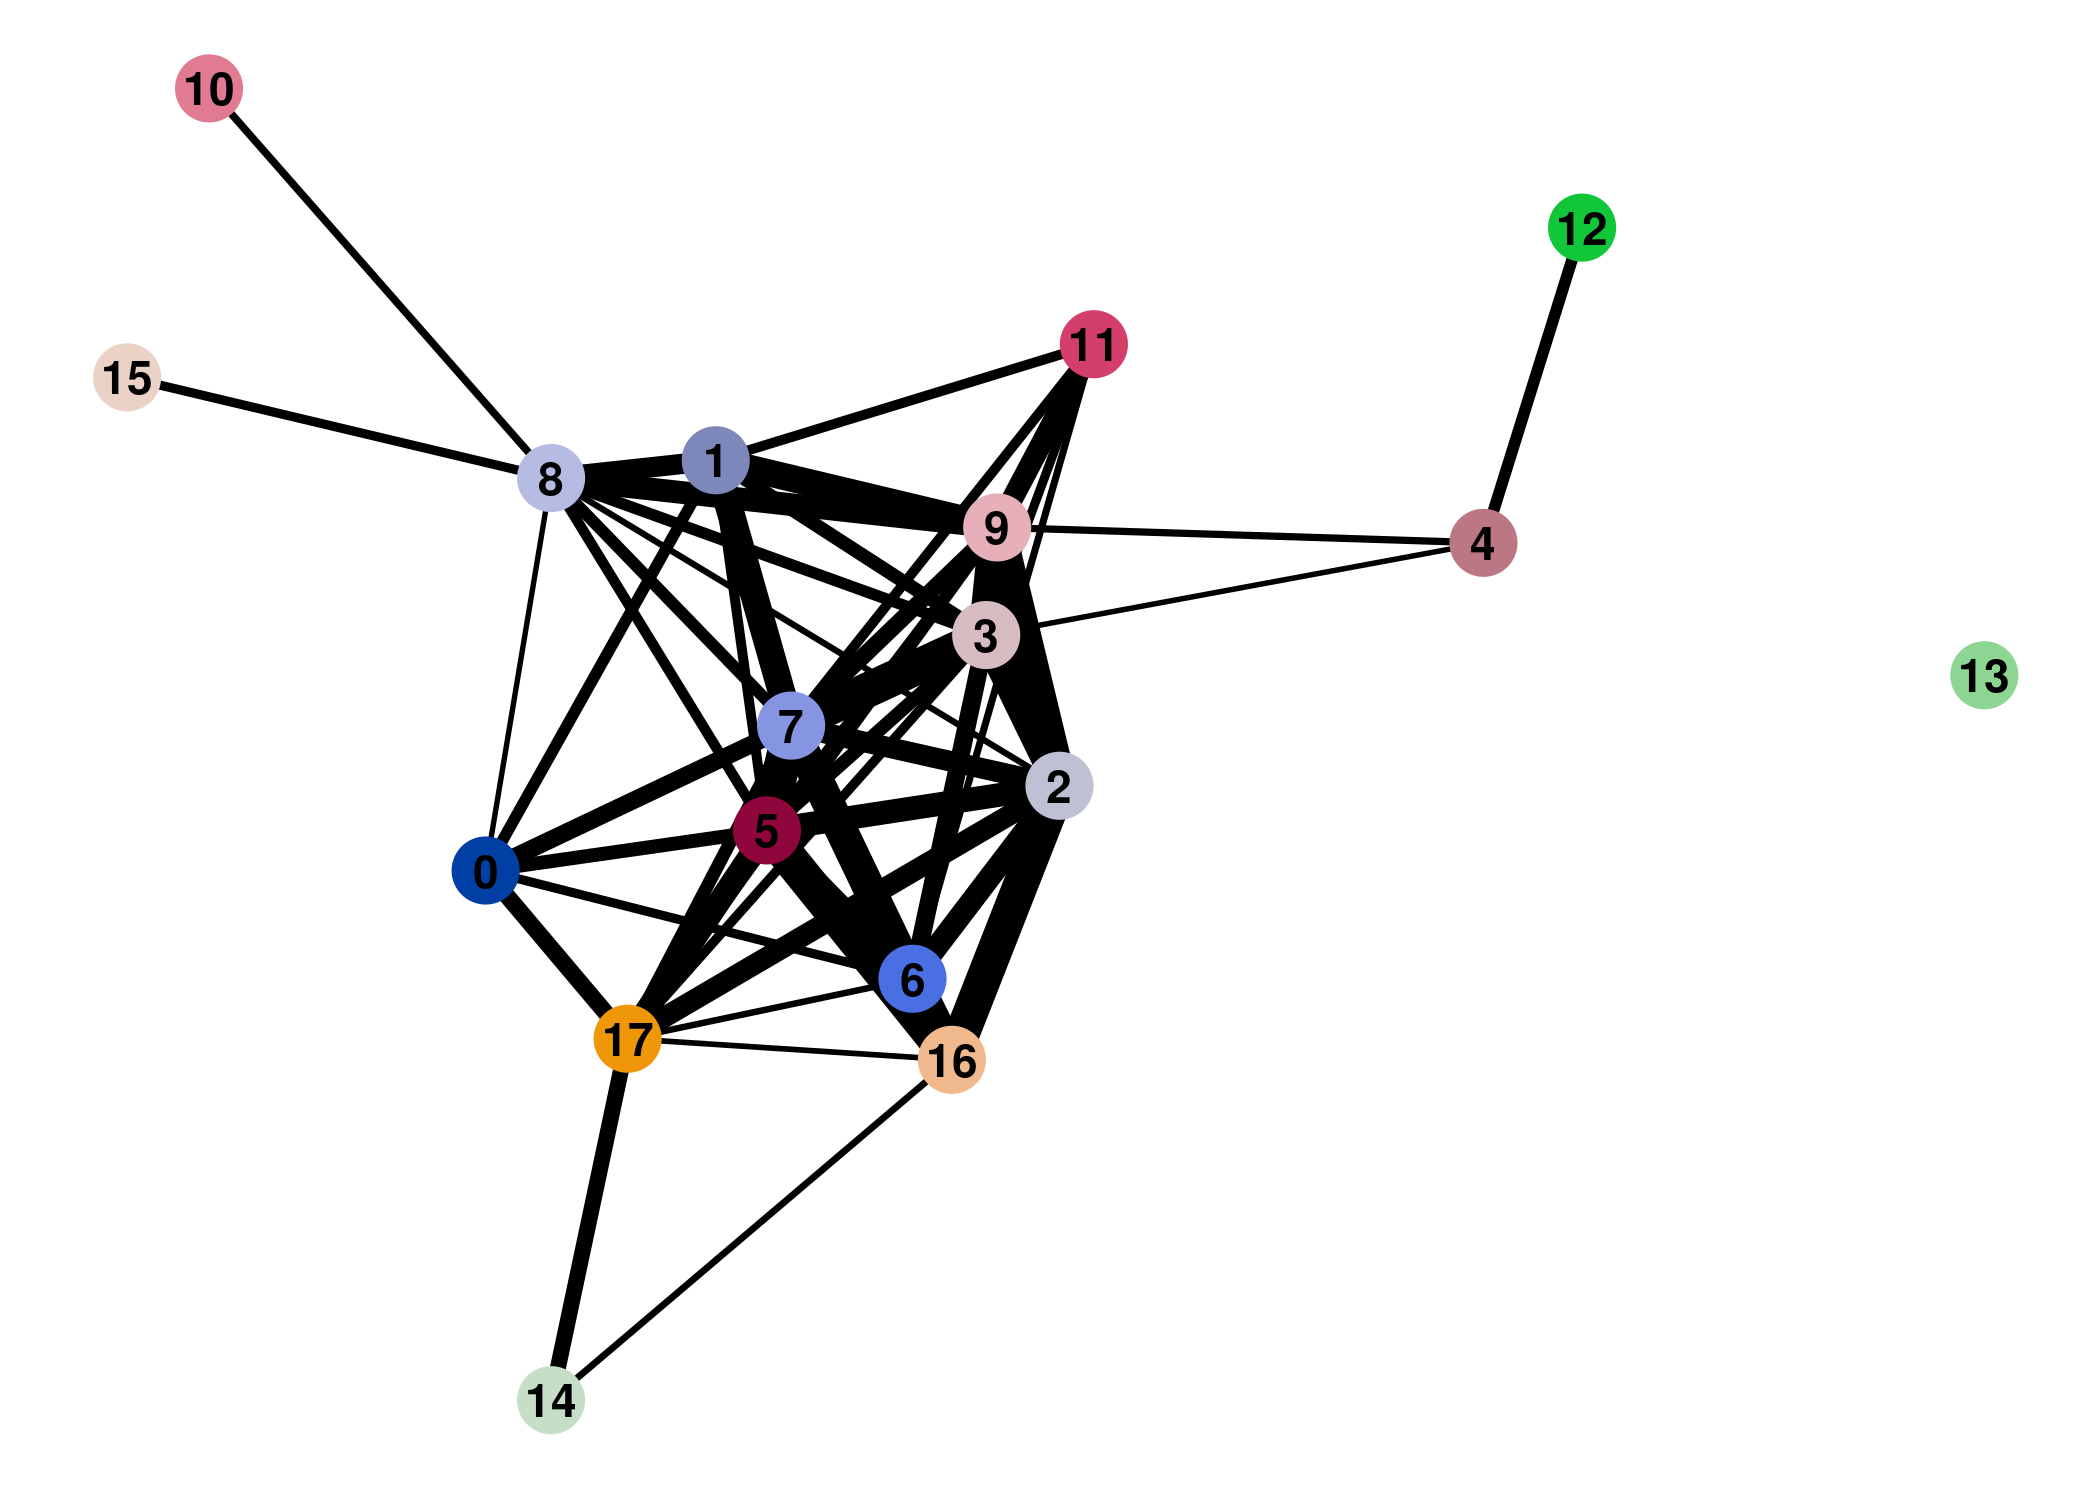
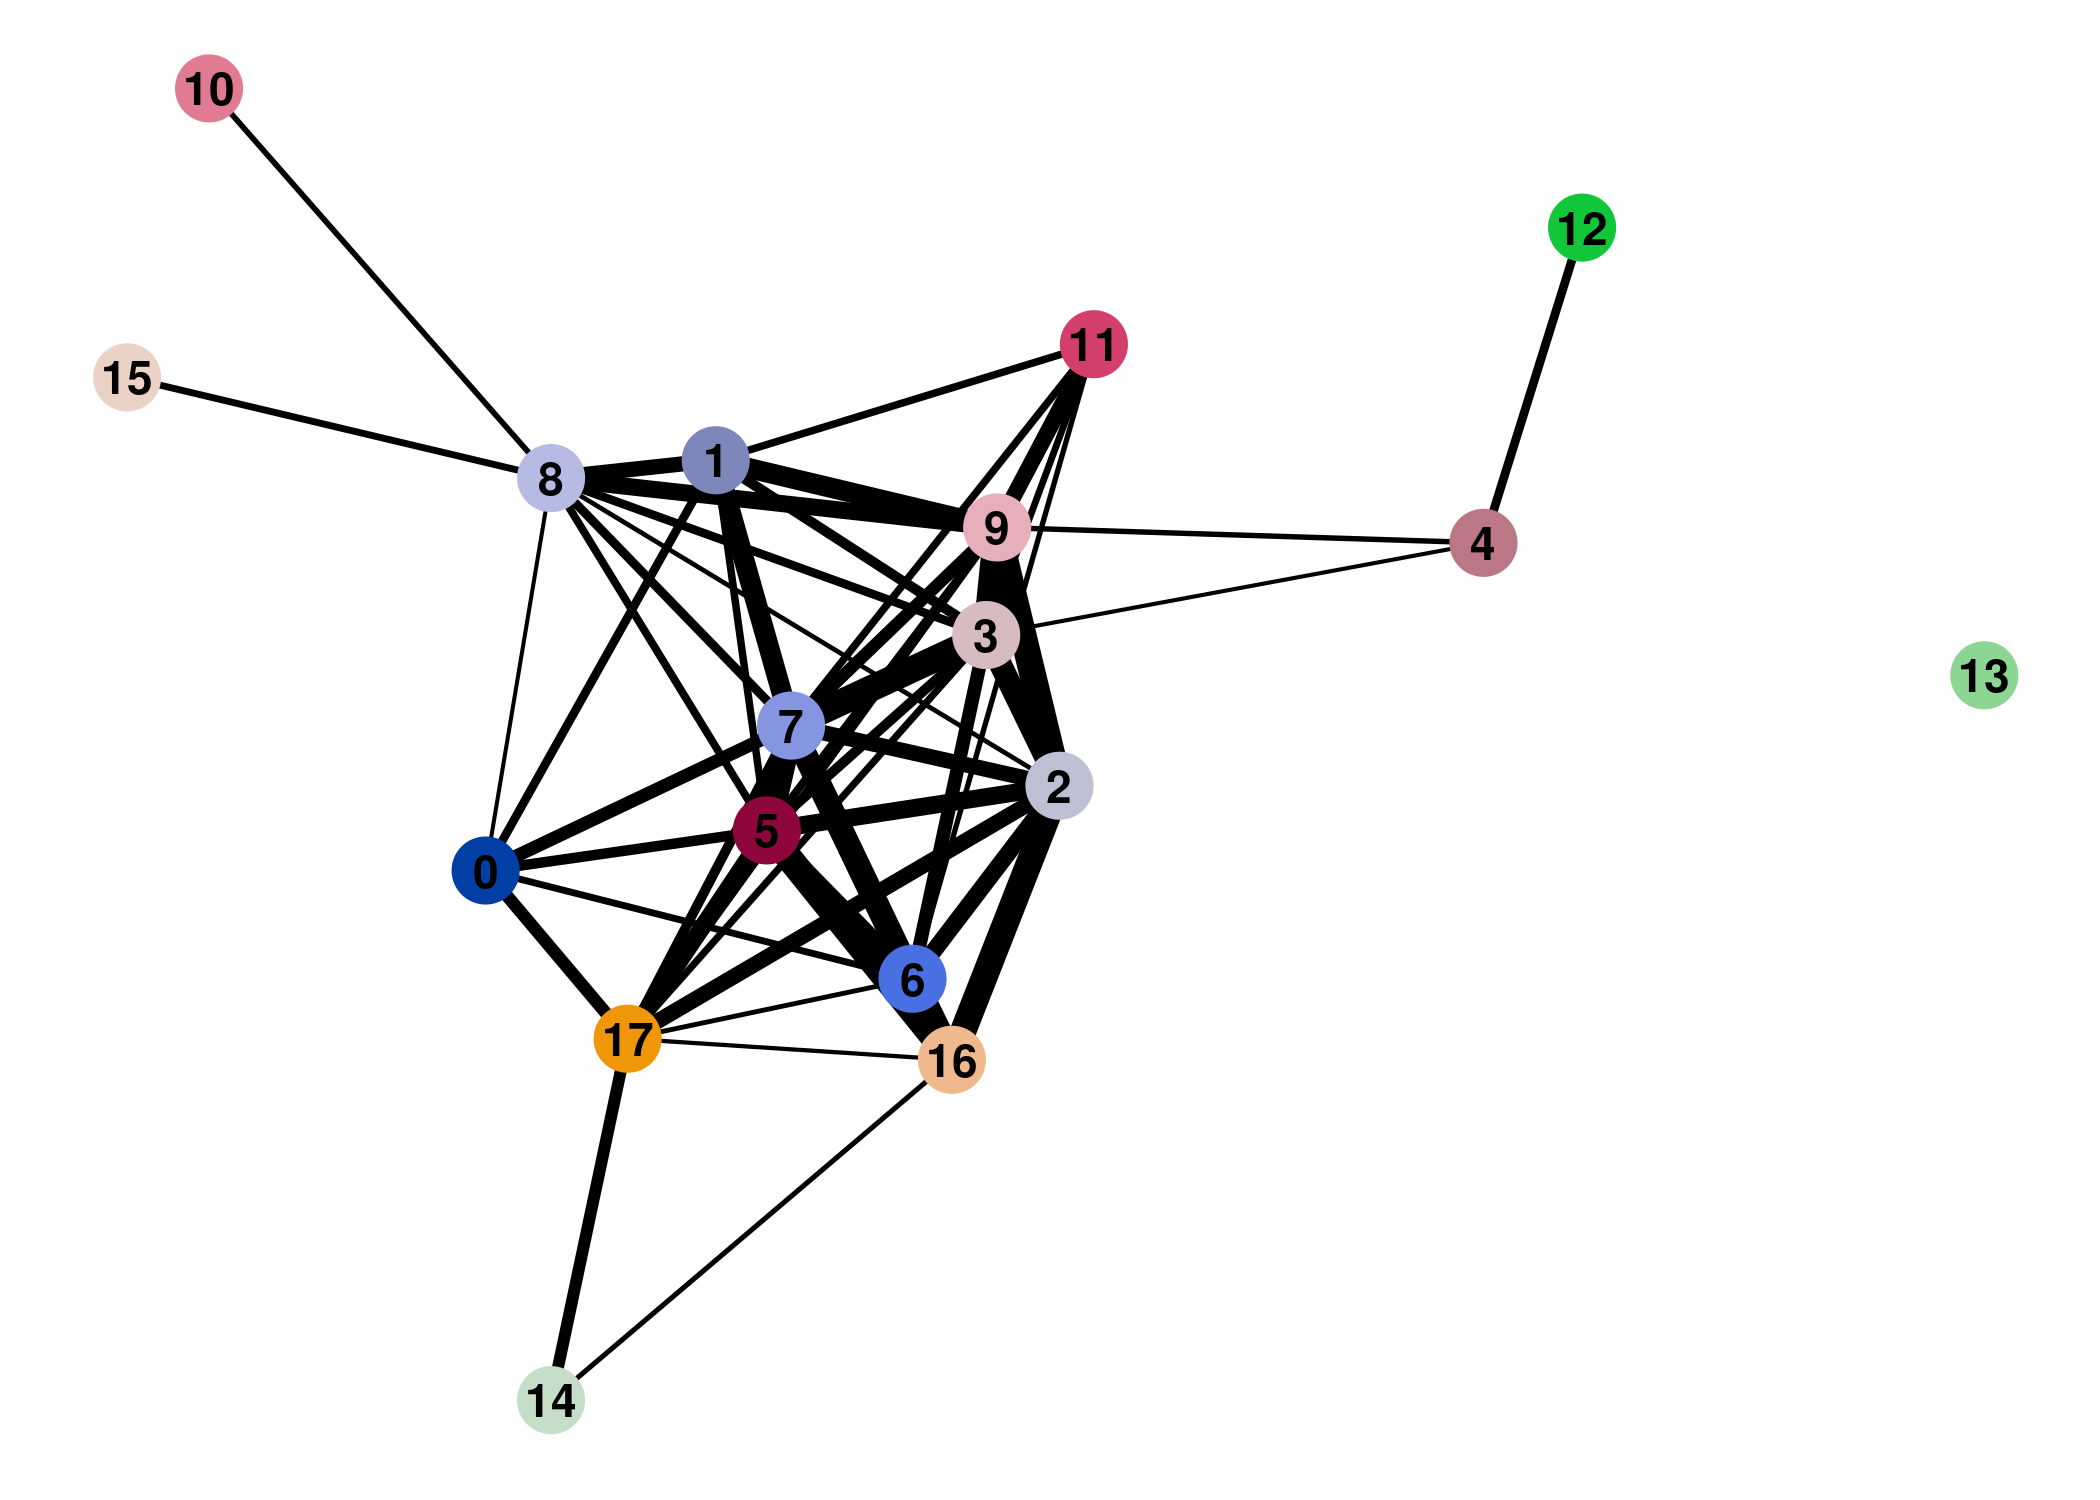
Update.

Changed region(s): [[0.2476, 0.3067, 0.4952, 0.7053], [0.4643, 0.276, 0.5262, 0.3373]]

diff --git a/blog/paga_to_r/index.html b/blog/paga_to_r/index.html
@@ -63,7 +63,7 @@
             
             <h1 class="posttitle">Porting PAGA results from scanpy to R</h1>
             <div class="article-post">
-              Apr 15, 2019
+              Apr 16, 2019
             </div>
 
           </div>
@@ -215,7 +215,7 @@ The lower the cut-off, the more connection will be visible.</p>
 geom_segment(
   data <span style="color:#f92672">=</span> paga_edges,
   aes(x <span style="color:#f92672">=</span> x1, y <span style="color:#f92672">=</span> y1, xend <span style="color:#f92672">=</span> x2, yend <span style="color:#f92672">=</span> y2),
-  size <span style="color:#f92672">=</span> paga_edges<span style="color:#f92672">$</span>weight<span style="color:#f92672">*</span><span style="color:#ae81ff">4</span>,
+  size <span style="color:#f92672">=</span> paga_edges<span style="color:#f92672">$</span>weight<span style="color:#f92672">*</span><span style="color:#ae81ff">3</span>,
   colour <span style="color:#f92672">=</span> <span style="color:#e6db74">&#34;black&#34;</span>,
   show.legend <span style="color:#f92672">=</span> <span style="color:#66d9ef">FALSE</span>
 ) <span style="color:#f92672">+</span>
@@ -376,22 +376,11 @@ mutate(
   y2 <span style="color:#f92672">=</span> paga<span style="color:#f92672">$</span>position<span style="color:#f92672">$</span>y[<span style="color:#66d9ef">match</span>(<span style="color:#ae81ff">.</span><span style="color:#f92672">$</span>group2, <span style="color:#66d9ef">rownames</span>(paga<span style="color:#f92672">$</span>position))]
 )</code></pre></div>
 
-<div class="highlight"><pre style="color:#f8f8f2;background-color:#272822;-moz-tab-size:4;-o-tab-size:4;tab-size:4"><code class="language-r" data-lang="r">paga_arrows <span style="color:#f92672">&lt;-</span> tibble(
-  group1 <span style="color:#f92672">=</span> <span style="color:#66d9ef">character</span>(),
-  group2 <span style="color:#f92672">=</span> <span style="color:#66d9ef">character</span>(),
-  weight <span style="color:#f92672">=</span> <span style="color:#66d9ef">double</span>(),
-  x1 <span style="color:#f92672">=</span> <span style="color:#66d9ef">double</span>(),
-  y1 <span style="color:#f92672">=</span> <span style="color:#66d9ef">double</span>(),
-  x2 <span style="color:#f92672">=</span> <span style="color:#66d9ef">double</span>(),
-  y2 <span style="color:#f92672">=</span> <span style="color:#66d9ef">double</span>()
-)</code></pre></div>
-
-<h4 id="generate-directed-arrows">Generate directed arrows</h4>
-
 <p>Next, we need to convert the transition confidences into a format that <code>ggplot2</code>, more precisely the <code>geom_segment</code> function, can handle.
 To do so, we&hellip;</p>
 
 <ul>
+<li>create an empty tibble for the data</li>
 <li>check the transition confidence for every combination of clusters</li>
 <li>check which direction is more confident and store only that value</li>
 <li>skip comparisons between clusters that have already been done</li>
@@ -400,16 +389,22 @@ To do so, we&hellip;</p>
 
 <p>There is probably a more elegant way to do this, perhaps using tools such as <a href="https://briatte.github.io/ggnetwork/"><code>ggnetwork</code></a> or <a href="https://briatte.github.io/ggnet/"><code>ggnet2</code></a>, but this gets the job done for now.</p>
 
-<div class="highlight"><pre style="color:#f8f8f2;background-color:#272822;-moz-tab-size:4;-o-tab-size:4;tab-size:4"><code class="language-r" data-lang="r"><span style="color:#75715e"># dimensions of transition confidence matrix</span>
+<div class="highlight"><pre style="color:#f8f8f2;background-color:#272822;-moz-tab-size:4;-o-tab-size:4;tab-size:4"><code class="language-r" data-lang="r">paga_arrows <span style="color:#f92672">&lt;-</span> tibble(
+  group1 <span style="color:#f92672">=</span> <span style="color:#66d9ef">character</span>(),
+  group2 <span style="color:#f92672">=</span> <span style="color:#66d9ef">character</span>(),
+  weight <span style="color:#f92672">=</span> <span style="color:#66d9ef">double</span>(),
+  x1 <span style="color:#f92672">=</span> <span style="color:#66d9ef">double</span>(),
+  y1 <span style="color:#f92672">=</span> <span style="color:#66d9ef">double</span>(),
+  x2 <span style="color:#f92672">=</span> <span style="color:#66d9ef">double</span>(),
+  y2 <span style="color:#f92672">=</span> <span style="color:#66d9ef">double</span>()
+)
+
 paga_arrows_dimensions <span style="color:#f92672">&lt;-</span> <span style="color:#66d9ef">nrow</span>(paga<span style="color:#f92672">$</span>transitions_confidence)
 
-<span style="color:#75715e"># list of performed comparisons</span>
 comparisons_done <span style="color:#f92672">&lt;-</span> <span style="color:#66d9ef">c</span>()
 
-<span style="color:#75715e"># gap parameter to avoid plotting arrows on top/behind cluster nodes</span>
 arrow_gap <span style="color:#f92672">&lt;-</span> <span style="color:#ae81ff">0.5</span>
 
-<span style="color:#75715e"># loop through rows</span>
 <span style="color:#66d9ef">for</span> ( i <span style="color:#66d9ef">in</span> <span style="color:#ae81ff">1</span><span style="color:#f92672">:</span>paga_arrows_dimensions ) {
   <span style="color:#75715e"># loop through columns</span>
   <span style="color:#66d9ef">for</span> ( j <span style="color:#66d9ef">in</span> <span style="color:#ae81ff">1</span><span style="color:#f92672">:</span>paga_arrows_dimensions ) {
@@ -513,30 +508,26 @@ These are the steps:</p>
 <li>Save plot to file.</li>
 </ul>
 
-<div class="highlight"><pre style="color:#f8f8f2;background-color:#272822;-moz-tab-size:4;-o-tab-size:4;tab-size:4"><code class="language-r" data-lang="r"><span style="color:#75715e"># set up plot</span>
-plot <span style="color:#f92672">&lt;-</span> ggplot()
+<div class="highlight"><pre style="color:#f8f8f2;background-color:#272822;-moz-tab-size:4;-o-tab-size:4;tab-size:4"><code class="language-r" data-lang="r">plot <span style="color:#f92672">&lt;-</span> ggplot()
 
-<span style="color:#75715e"># add connectivities between clusters</span>
 plot <span style="color:#f92672">&lt;-</span> plot <span style="color:#f92672">+</span> geom_segment(
     data <span style="color:#f92672">=</span> paga_edges,
     aes(x <span style="color:#f92672">=</span> x1, y <span style="color:#f92672">=</span> y1, xend <span style="color:#f92672">=</span> x2, yend <span style="color:#f92672">=</span> y2),
-    size <span style="color:#f92672">=</span> paga_edges<span style="color:#f92672">$</span>weight<span style="color:#f92672">*</span><span style="color:#ae81ff">4</span>,
+    size <span style="color:#f92672">=</span> paga_edges<span style="color:#f92672">$</span>weight<span style="color:#f92672">*</span><span style="color:#ae81ff">3</span>,
     linetype <span style="color:#f92672">=</span> <span style="color:#ae81ff">2</span>,
     colour <span style="color:#f92672">=</span> <span style="color:#e6db74">&#34;grey&#34;</span>,
     alpha <span style="color:#f92672">=</span> <span style="color:#ae81ff">0.75</span>,
     show.legend <span style="color:#f92672">=</span> <span style="color:#66d9ef">FALSE</span>
   )
 
-<span style="color:#75715e"># add transition arrows between clusters</span>
 plot <span style="color:#f92672">&lt;-</span> plot <span style="color:#f92672">+</span> geom_segment(
     data <span style="color:#f92672">=</span> paga_arrows,
     aes(x <span style="color:#f92672">=</span> x1, y <span style="color:#f92672">=</span> y1, xend <span style="color:#f92672">=</span> x2, yend <span style="color:#f92672">=</span> y2),
-    size <span style="color:#f92672">=</span> paga_arrows<span style="color:#f92672">$</span>weight<span style="color:#f92672">*</span><span style="color:#ae81ff">4</span>,
+    size <span style="color:#f92672">=</span> paga_arrows<span style="color:#f92672">$</span>weight<span style="color:#f92672">*</span><span style="color:#ae81ff">3</span>,
     arrow <span style="color:#f92672">=</span> arrow(length <span style="color:#f92672">=</span> unit(<span style="color:#ae81ff">0.02</span>, <span style="color:#e6db74">&#34;npc&#34;</span>), type <span style="color:#f92672">=</span> <span style="color:#e6db74">&#34;closed&#34;</span>),
     show.legend <span style="color:#f92672">=</span> <span style="color:#66d9ef">FALSE</span>
   )
 
-<span style="color:#75715e"># add cluster nodes</span>
 plot <span style="color:#f92672">&lt;-</span> plot <span style="color:#f92672">+</span> geom_point(
     data <span style="color:#f92672">=</span> paga<span style="color:#f92672">$</span>position,
     aes(x, y, color <span style="color:#f92672">=</span> group),
@@ -544,7 +535,6 @@ plot <span style="color:#f92672">&lt;-</span> plot <span style="color:#f92672">+
     show.legend <span style="color:#f92672">=</span> <span style="color:#66d9ef">FALSE</span>
   )
 
-<span style="color:#75715e"># add cluster number to nodes</span>
 plot <span style="color:#f92672">&lt;-</span> plot <span style="color:#f92672">+</span> geom_text(
     data <span style="color:#f92672">=</span> paga<span style="color:#f92672">$</span>position,
     aes(x, y, label <span style="color:#f92672">=</span> group),
@@ -552,7 +542,6 @@ plot <span style="color:#f92672">&lt;-</span> plot <span style="color:#f92672">+
     fontface <span style="color:#f92672">=</span> <span style="color:#e6db74">&#34;bold&#34;</span>
   )
 
-<span style="color:#75715e"># customize cluster color and layout</span>
 plot <span style="color:#f92672">&lt;-</span> plot <span style="color:#f92672">+</span> scale_color_manual(values <span style="color:#f92672">=</span> paga<span style="color:#f92672">$</span>group_colors) <span style="color:#f92672">+</span>
   labs(x <span style="color:#f92672">=</span> <span style="color:#e6db74">&#34;UMAP_1&#34;</span>, y <span style="color:#f92672">=</span> <span style="color:#e6db74">&#34;UMAP_2&#34;</span>) <span style="color:#f92672">+</span>
   theme_bw() <span style="color:#f92672">+</span>
@@ -566,7 +555,6 @@ plot <span style="color:#f92672">&lt;-</span> plot <span style="color:#f92672">+
     panel.border <span style="color:#f92672">=</span> element_blank()
   )
 
-<span style="color:#75715e"># save plot to file</span>
 ggsave(plot <span style="color:#f92672">=</span> plot, filename <span style="color:#f92672">=</span> <span style="color:#e6db74">&#34;r_paga_velocity.pdf&#34;</span>, height <span style="color:#f92672">=</span> <span style="color:#ae81ff">5</span>, width <span style="color:#f92672">=</span> <span style="color:#ae81ff">7</span>)
 ggsave(plot <span style="color:#f92672">=</span> plot, filename <span style="color:#f92672">=</span> <span style="color:#e6db74">&#34;r_paga_velocity.png&#34;</span>, height <span style="color:#f92672">=</span> <span style="color:#ae81ff">5</span>, width <span style="color:#f92672">=</span> <span style="color:#ae81ff">7</span>)</code></pre></div>
 
@@ -575,7 +563,7 @@ ggsave(plot <span style="color:#f92672">=</span> plot, filename <span style="col
 <ul>
 <li><code>arrow_gap</code>: How much to shorten the length of the transition arrows.</li>
 <li>Filter threshold for connectivities and transitions, here set to <code>0.15</code>.</li>
-<li>Scaling factors for connectivities (dashed lines) and transitions (arrows), currently set to <code>4</code>.</li>
+<li>Scaling factors for connectivities (dashed lines) and transitions (arrows), currently set to <code>3</code>.</li>
 </ul>
 
 <h4 id="result-1">Result</h4>

diff --git a/blog/index.html b/blog/index.html
@@ -62,7 +62,7 @@
           
           
             <li style="font-size: 1.1rem; @media only screen and (max-width : 768px) { margin: 1.6rem 0 1.6rem 0 }">
-              <span style="display: inline-block; width: 10.0rem; text-align: right; margin-right: 2.0rem; @media only screen and (max-width : 768px) { display: block; text-align: left }">April 15, 2019</span>
+              <span style="display: inline-block; width: 10.0rem; text-align: right; margin-right: 2.0rem; @media only screen and (max-width : 768px) { display: block; text-align: left }">April 16, 2019</span>
               <a style="font-size: 1.1rem; color: $fg-color; font-weight: 700" href="/blog/paga_to_r/">Porting PAGA results from scanpy to R</a>
             </li>
           

diff --git a/tags/tutorial/index.html b/tags/tutorial/index.html
@@ -69,7 +69,7 @@
     </div>
     <div class="card-body">
       <h2 class="card-title"><a class="text-dark" href="/blog/paga_to_r/">Porting PAGA results from scanpy to R</a></h2>
-      <h4 class="card-text">Apr 15, 2019</h4>
+      <h4 class="card-text">Apr 16, 2019</h4>
       <h4 class="card-text">Seurat and scanpy are both great frameworks to analyze single-cell RNA-seq data, the main difference being the language they are designed for. Most of the methods frequently used in the literature are available in both toolkits and the workflow is essentially the same.</h4>
     </div>
   </div>
